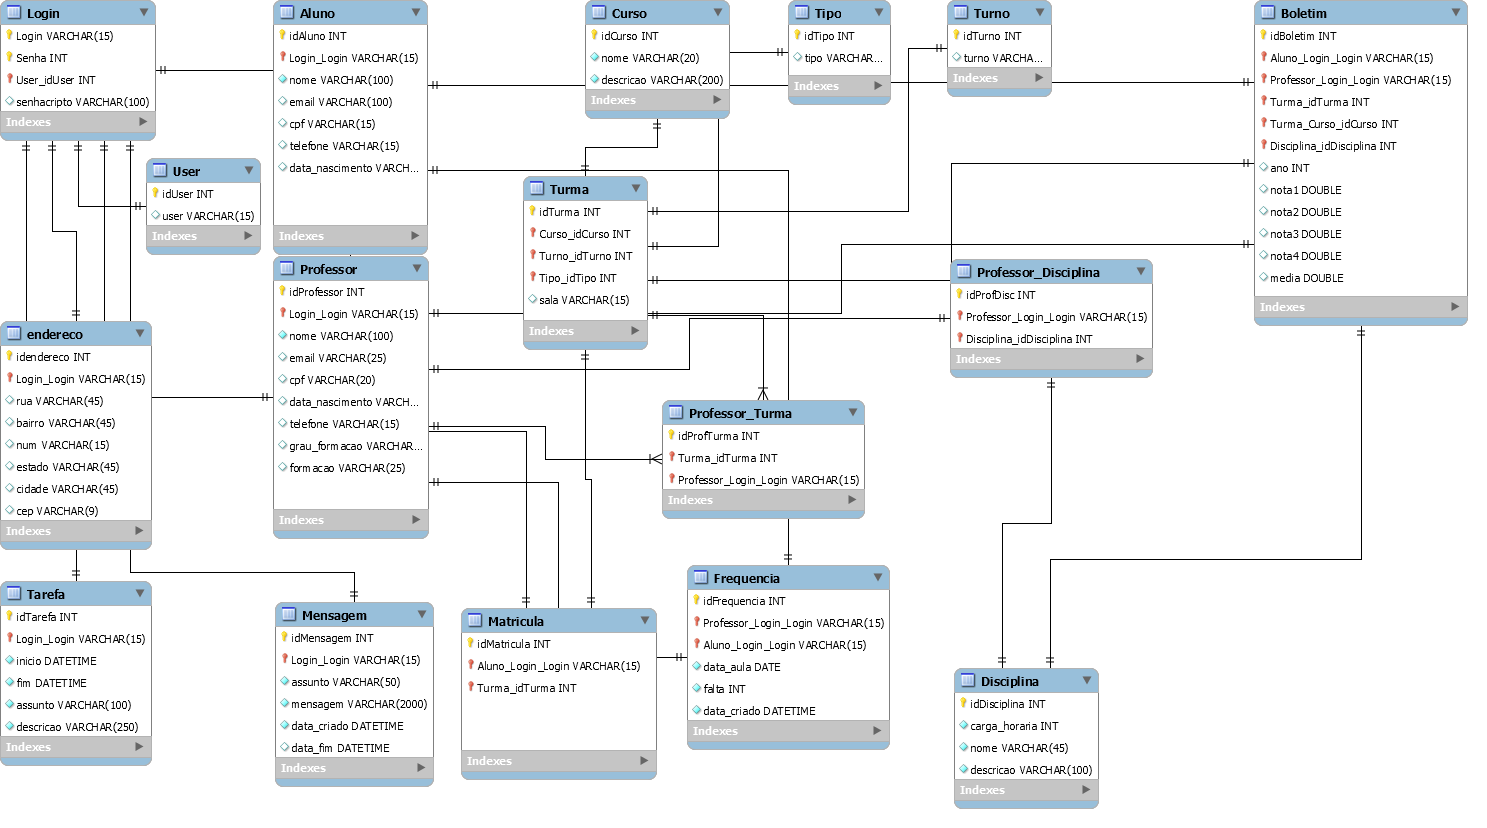
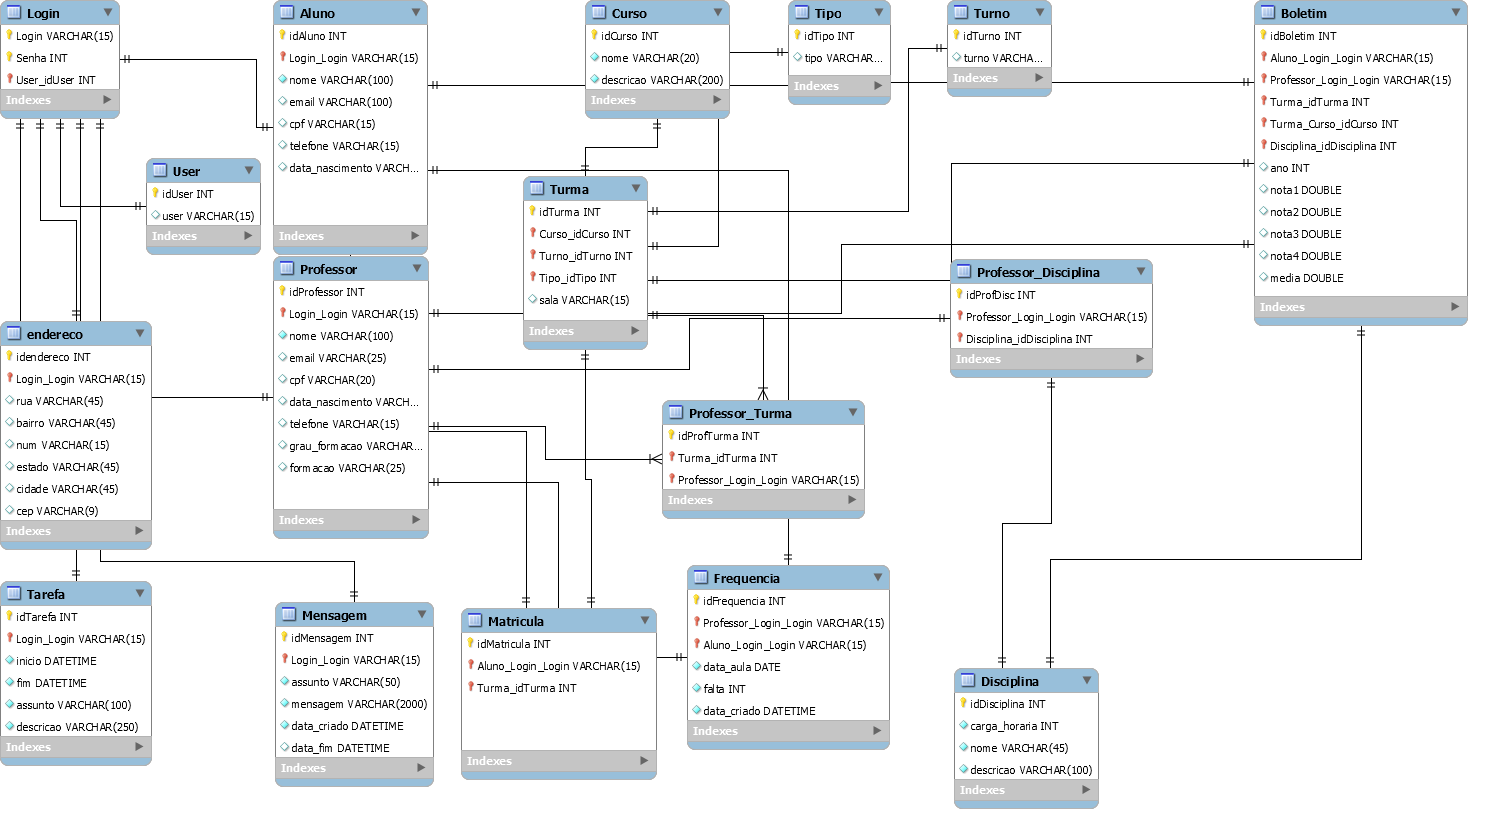
Criptografia retirada

Changed region(s): [[0.0, 0.0906, 0.1237, 0.1812], [0.0619, 0.0, 0.1237, 0.0302], [0.0928, 0.0604, 0.1237, 0.0906]]

diff --git a/SistemaEscola/SistemaEscola/DAO/LoginDAO.cs b/SistemaEscola/SistemaEscola/DAO/LoginDAO.cs
@@ -30,11 +30,10 @@ namespace SistemaEscola.DAO
 
             try
             {
-                cmd.CommandText = "INSERT INTO Login (Login, Senha, User_idUser, senhacripto) values (@login, @senha, @user, @cripto)";
+                cmd.CommandText = "INSERT INTO Login (Login, Senha, User_idUser) values (@login, @senha, @user)";
                 cmd.Parameters.AddWithValue("@login", login.Log);
                 cmd.Parameters.AddWithValue("@senha", login.Senha);
                 cmd.Parameters.AddWithValue("@user", login.User);
-                cmd.Parameters.AddWithValue("@cripto", login.Crip);
             }
             catch (MySqlException ep)
             {

diff --git a/SistemaEscola/SistemaEscola/Entidades/Login.cs b/SistemaEscola/SistemaEscola/Entidades/Login.cs
@@ -8,19 +8,13 @@ namespace SistemaEscola.Entidades
 {
     class Login
     {
-        private String login, crip;
+        private String login;
         private int senha, user;
 
         public String Log
         {
             get { return login; }
             set { login = value; }
-        }
-
-        public String Crip
-        {
-            get { return crip; }
-            set { crip = value; }
         }
 
         public int Senha

diff --git a/SistemaEscola/SistemaEscola/Formulários/Admin/Matricula/MatricularAluno.cs b/SistemaEscola/SistemaEscola/Formulários/Admin/Matricula/MatricularAluno.cs
@@ -55,7 +55,6 @@ namespace SistemaEscola.Formulários.Admin.Matricula
             loginEnt.Log = login;
             loginEnt.Senha = senha;
             loginEnt.User = user;
-            loginEnt.Crip = senhacript;
 
             loginDAO.salvarLogin(loginEnt);
 
